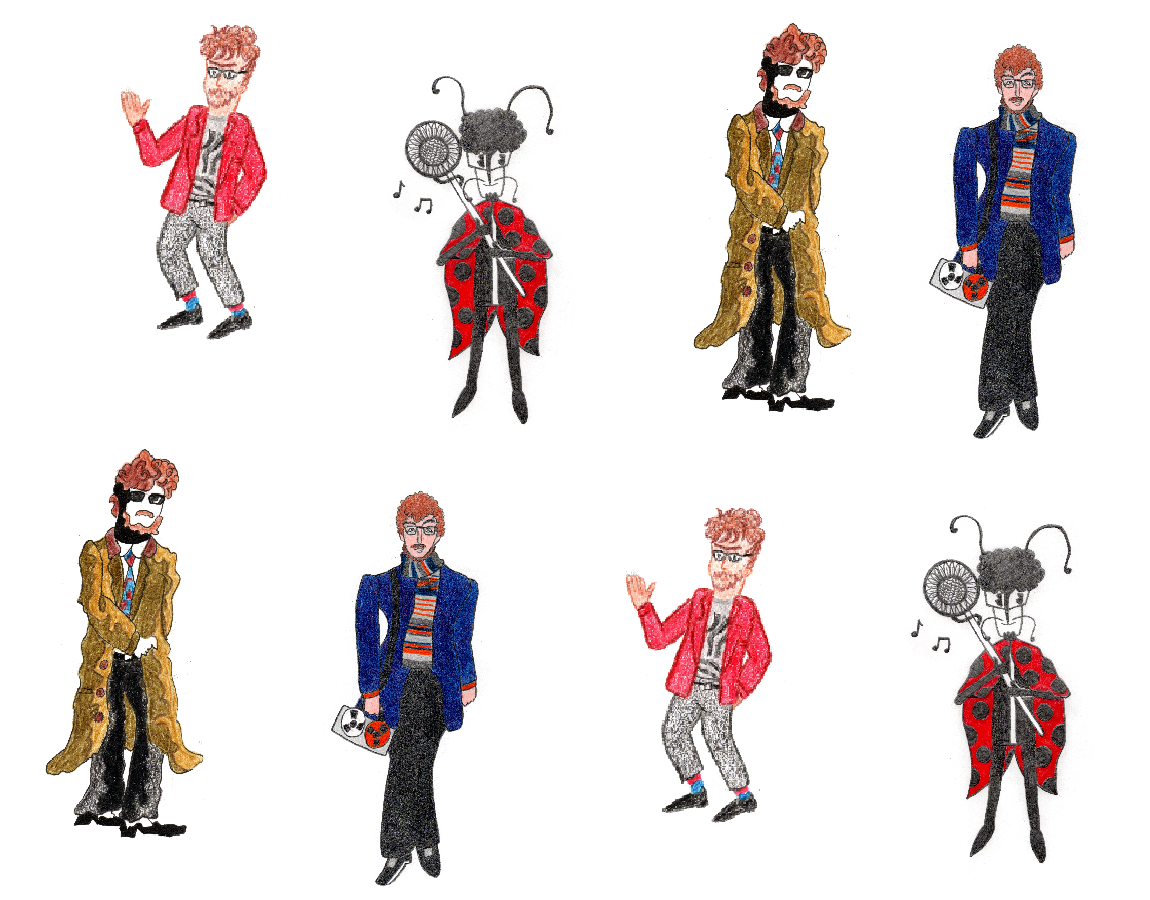
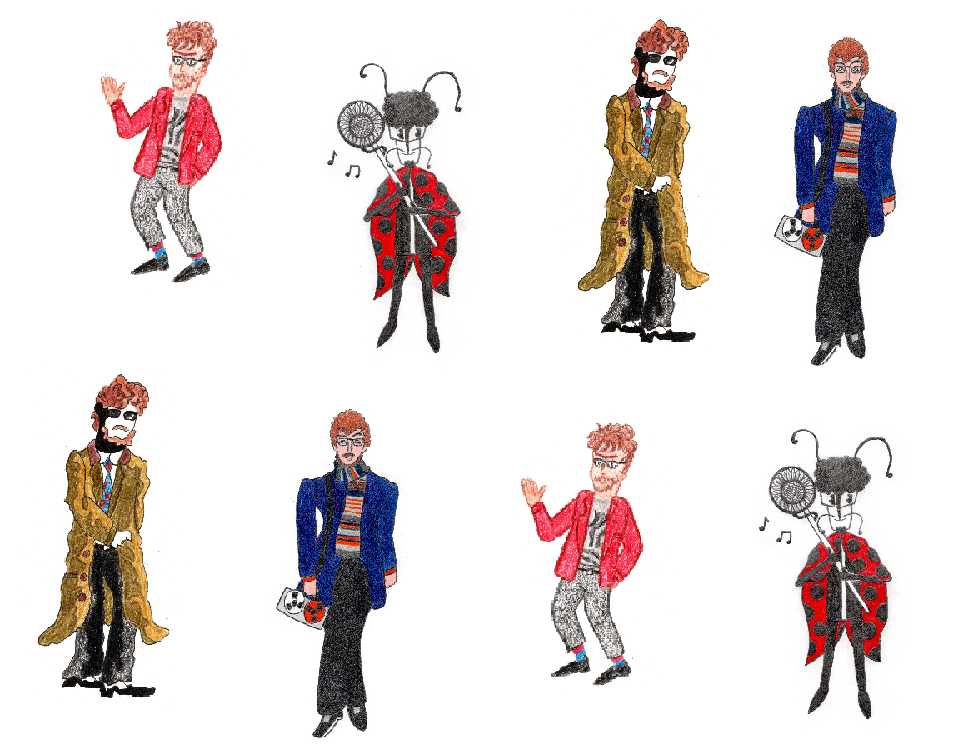
tile reduction, bg size change, broadcast cv mobile op

diff --git a/broadcast.html b/broadcast.html
@@ -62,6 +62,15 @@
             </div>
             <div class="line"></div>
             
+            <div id="broadcastRmob">
+                    
+                    <h2 style="font-family: vollkorn; color: #bb5f28; text-align: center; margin-left: 10%; margin-right: 10%; font-weight: 100; font-size: larger;">
+                        The best way to view more details about me is on my <a style="font-weight: 500; color: white;" href="https://www.linkedin.com/in/arron-ware/">LinkedIn</a>
+                        <br> <h3 style="padding-top: 5px;">Full CV available to be requested via <a style="font-weight: 500; color: white;" href="mailto:contact.arronware@gmail.com">E-Mail</a></h3>
+                    </h2>
+                   
+                    
+                </div>
 
             <div id="contact">
             
@@ -75,7 +84,7 @@
                         <h4 id="broadcastdates"><a class="broadcastcvlink" href="downloads/Certificates/Dante/Dante Lvl1-3rd Arron Ware.pdf">Certificate</a></h4>
                         <br>
                         <h3><a>Microsoft Certified: Azure AI Fundamentals</a></h3>
-                        <h4 id="broadcastdates">June 2022-</h4>
+                        <h4 id="broadcastdates">June 2022</h4>
                         <h4 id="broadcastdates"><a class="broadcastcvlink" href="https://www.credly.com/badges/3d0818c1-d883-452e-951d-3bdec1dc8165?source=linked_in_profile ">Credential -></a></h4>
                     </h2>
                     <br>

diff --git a/style.css b/style.css
@@ -35,7 +35,7 @@ html {
 
 
     background-repeat: repeat;
-    background-size: 525px;
+    background-size: 250px;
 }
 
 img {
@@ -887,7 +887,7 @@ button {
 
 #article-length {
     font-size: medium;
-    background-color: #bb5f28;
+    background-color: #e9874c;
     color: white;
     margin-left: auto;
     margin-right: auto;
@@ -1014,6 +1014,19 @@ button {
     transform: translateY(-100px);
     background-position-x: center;
 }
+
+
+
+
+
+
+
+
+#broadcastRmob {
+    display: none;
+
+}
+
 
 
 
@@ -1199,6 +1212,61 @@ button {
 
 
 @media (min-width: 0px) and (max-width: 800px) {
+
+
+
+/* BROADCAST*/
+
+
+#broadcastL {
+    float: left;
+    width: 100%;
+    background-color: white;
+    min-height: 100px;
+    border-radius: 20px;
+    display: block;
+}
+
+#broadcastR {
+    display: none;
+    float: left;
+    /* background-color: red; */
+    min-height: 100px;
+    width: 50%;
+    padding: 0px 20px 0px 20px;
+}
+
+#broadcastRmob {
+    display: block;
+    font-size: larger !important;
+
+}
+
+
+#broadcastdates {
+    text-align: center;
+    font-family: 'vollkorn';
+    font-style: italic;
+    color: dimgrey;
+    font-size: small;
+}
+
+.broadcastcvlink {
+    color: white;
+    background-color: #e9874c;
+    border-radius: 5px;
+    padding: 2px;
+    font-style: normal;
+}
+
+.broadcastcvlink:hover {
+    background-color: #f39961;
+}
+
+
+ 
+    
+
 
 #soundphotoshowcase {
     width: 100%;
